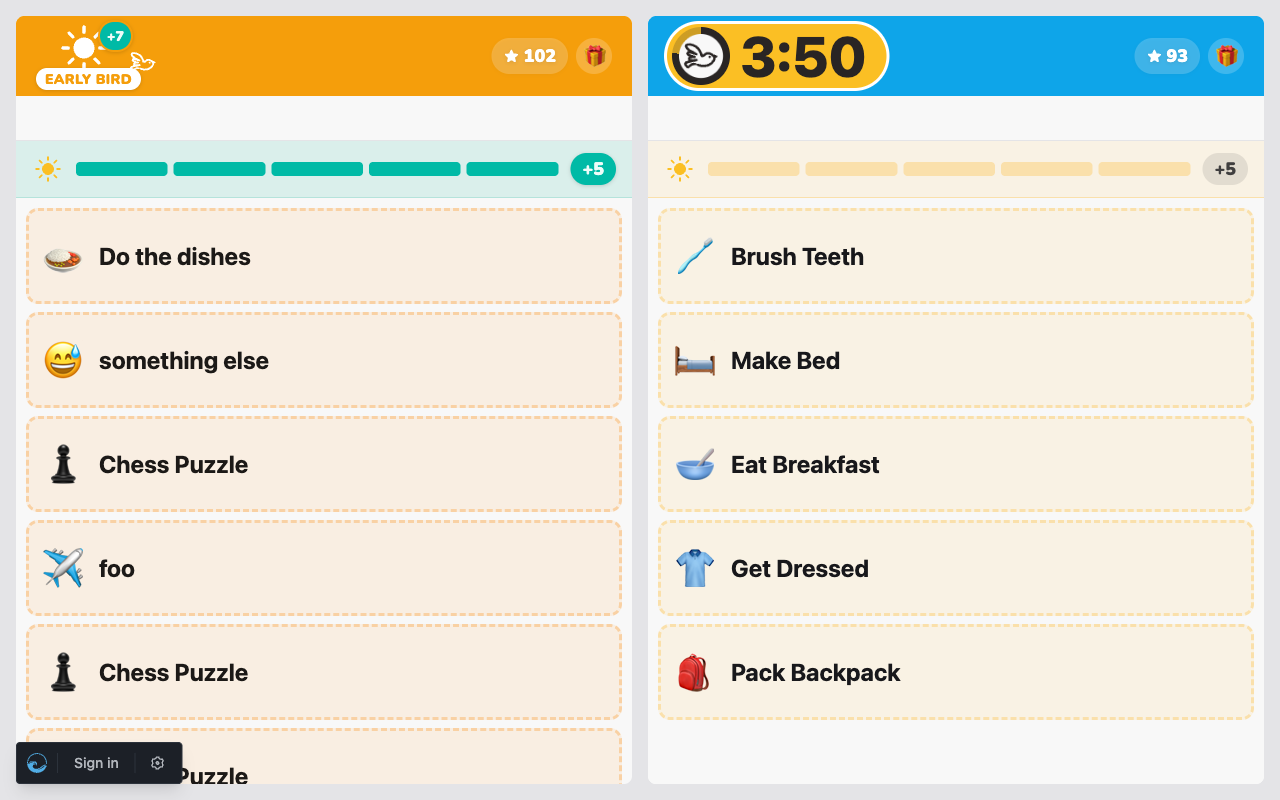
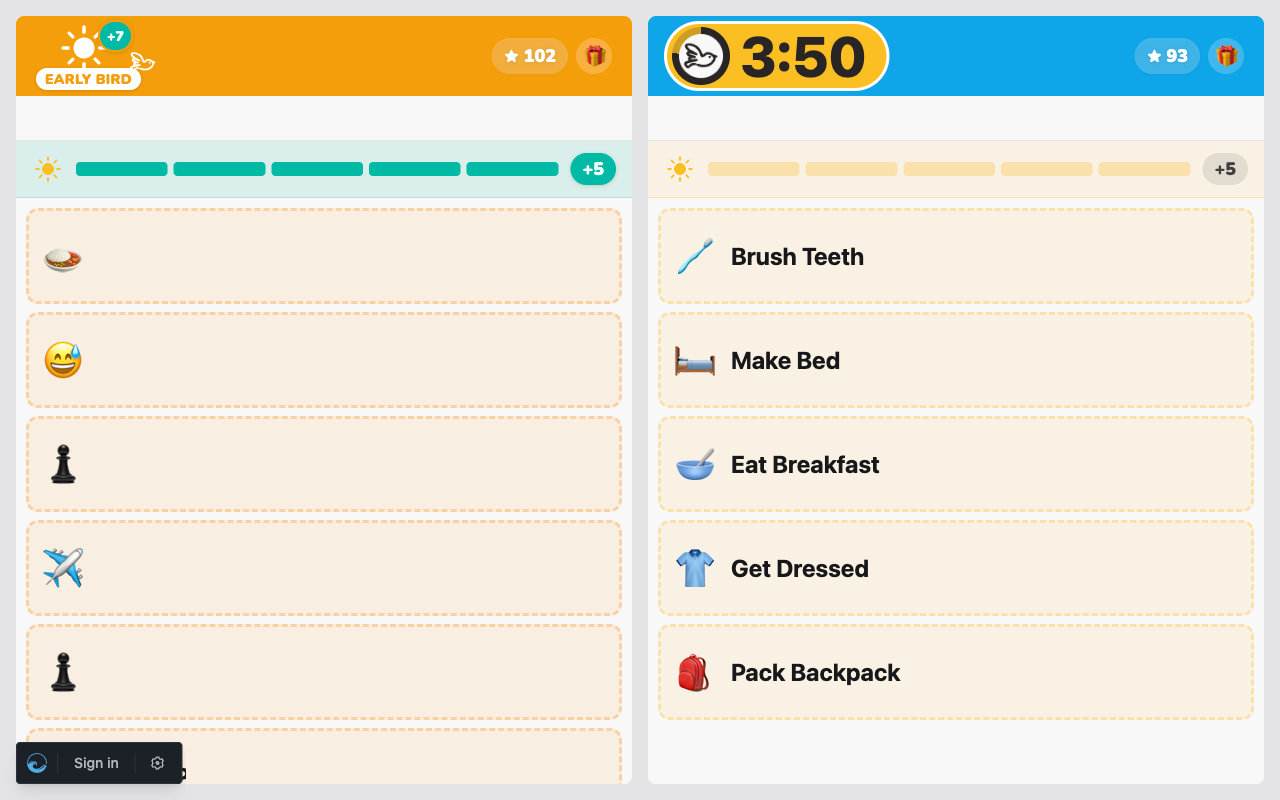
docs: land the countdown retro's backlog, learnings and mask items
Three of the retro's rulings land in repo-level files, and two
screenshots are repaired. The backlog gains a oneshot for a dev-only
review mask in the scenarios module, so kiosk screenshots carry no
kid names, event text or chore names by construction instead of by
each session's injected stylesheet. The 2026-10-04 learning on
proving a behavior rather than its structure gains its second
instance, Story 06's tick that the verifier passed on reading the
clause. CLAUDE.md's household-data line now names parent-entered
chore names and the completed-routine states where the extras list
shows. The two completed-morning screenshots had the family's extras
in view; their labels are painted over, the emoji and layout kept,
before any push.

diff --git a/CLAUDE.md b/CLAUDE.md
@@ -19,7 +19,7 @@ Verify command: `mix precommit`
 
 Local review: 1280 × 800 CSS px via `BearCub.Dev.Scenarios`
 
-If the Chrome MCP extension is not connected, the gate review runs through the Playwright MCP tools (`browser_resize` to 1280 × 800, then `browser_take_screenshot` into the initiative directory); the first resize may not take effect on an already-loaded page (one measured 1200 × 817), so read `window.innerWidth` / `innerHeight` before capturing and check the file with `sips` afterwards; a full-page screenshot catches the fixed bottom tab bar mid-image, which is expected. Screenshots are committed to this public repo, so they carry no household data: no kid names and no calendar event text. Stage calendar events through `BearCub.Dev.Scenarios` (an events scenario is on the backlog) and never capture with the live dev cache in view, since it holds the family's real calendar [2026-10-08].
+If the Chrome MCP extension is not connected, the gate review runs through the Playwright MCP tools (`browser_resize` to 1280 × 800, then `browser_take_screenshot` into the initiative directory); the first resize may not take effect on an already-loaded page (one measured 1200 × 817), so read `window.innerWidth` / `innerHeight` before capturing and check the file with `sips` afterwards; a full-page screenshot catches the fixed bottom tab bar mid-image, which is expected. Screenshots are committed to this public repo, so they carry no household data: no kid names, no calendar event text and no parent-entered chore names; the seeded routine names are fine. Until the review-mask scenario on the backlog exists, hide them in the page before capturing, and check the completed-routine states, where the extras list shows [2026-10-08]. Stage calendar events through `BearCub.Dev.Scenarios` (an events scenario is on the backlog) and never capture with the live dev cache in view, since it holds the family's real calendar [2026-10-08].
 
 ## Authoritative docs
 
